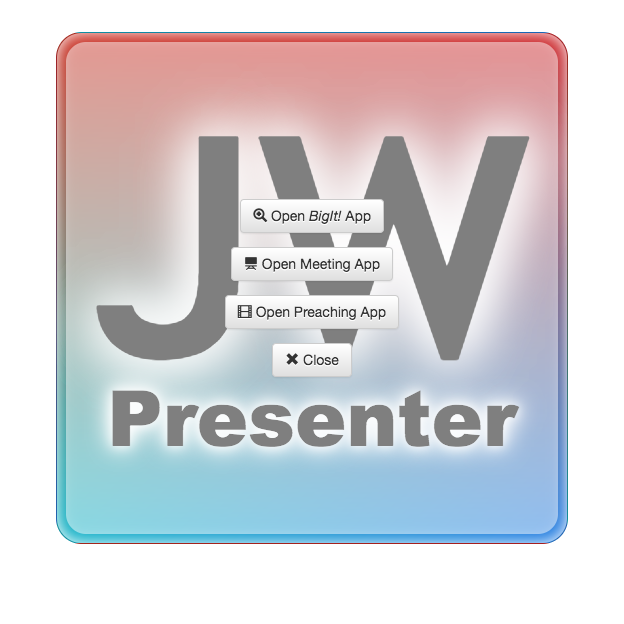
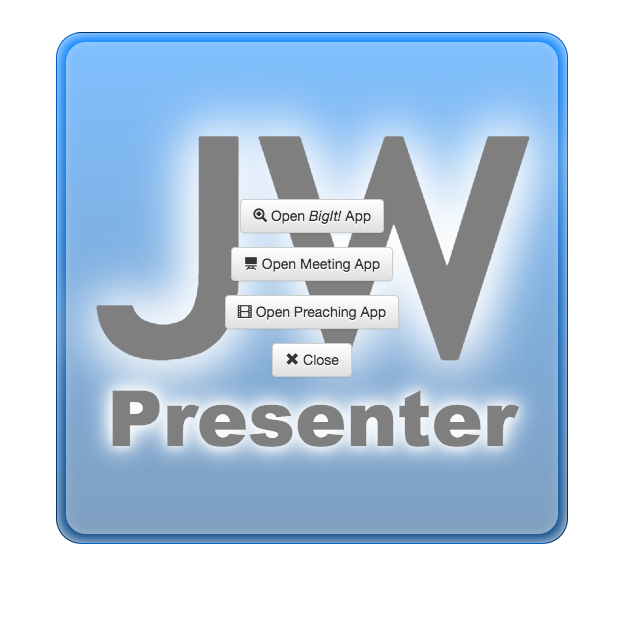
Fix preaching app's primary button styles.  Updated package.json for better distributions.  Change README to coincide with changes made in package.json.  Updated the launcher's screenshot.

diff --git a/preaching/index.html b/preaching/index.html
@@ -64,7 +64,7 @@
             <div class="input-group">
               <input type="text" id="txtSearch" placeholder="filter..." class="form-control">
               <span class="input-group-btn">
-                <button class="btn btn-default btn-primary"><i class="glyphicon glyphicon-search"></i></button>
+                <button class="btn btn-primary"><i class="glyphicon glyphicon-search"></i></button>
               </span>
             </div>
           </form>
@@ -86,7 +86,7 @@
           <div class="modal-body">
           </div>
           <div class="modal-footer">
-            <button type="button" class="btn btn-default btn-primary" data-dismiss="modal">Close</button>
+            <button type="button" class="btn btn-primary" data-dismiss="modal">Close</button>
             <button type="button" class="btn btn-reset">Reset</button>
           </div>
         </div>
@@ -154,7 +154,7 @@
           </div>
           <div class="modal-body"></div>
           <div class="modal-footer">
-            <button type="button" class="btn btn-default btn-primary btn-close" data-dismiss="modal">Close</button>
+            <button type="button" class="btn btn-primary btn-close" data-dismiss="modal">Close</button>
           </div>
         </div>
       </div>

diff --git a/app.js b/app.js
@@ -2,7 +2,7 @@ const path = require('path');
 const fs = require('fs');
 const os = require('os');
 const {app, BrowserWindow, Menu, shell, powerSaveBlocker, ipcMain} = require('electron');
-const JS = require('./YourJS/JS.js');
+const JS = require('./YourJS/JS');
 
 const IS_MAC = /^darwin/.test(os.platform());
 
@@ -226,12 +226,6 @@ ipcMain.on('start-meetings-app', () => {
         {
           label: 'View',
           submenu: [
-            // {
-            //   label: 'Reload',
-            //   accelerator: 'CmdOrCtrl+R',
-            //   role: 'reload'
-            // },
-            // { type: 'separator' },
             {
               label: 'Toggle Dev Tools',
               accelerator: 'CmdOrCtrl+Alt+I',

diff --git a/README.md b/README.md
@@ -13,12 +13,7 @@ Application designed by/for Jehovah's Witnesses for seamlessly presenting media 
 1. Clone this repository locally.
 1. Open up a command-line window and change the current directory to the main directory of the cloned repository.
 1. Run `npm install` to install the dependencies on your machine.
-1. Run `npm run build-mac` to build the Mac 64-bit version of this app locally.
-   1. Once done a new directory will have been created in the main repository directory called "JW-Presenter_For_Mac64".
-   1. The underlying .app file can be put into a Mac 64-bit "/Applications/" folder.
-1. Run `npm run build-win` to build the Windows 64-bit version of this app locally.
-   1. Once done a new directory will have been created in the main repository directory called "JW-Presenter_For_Win64".
-   1. The underlying folder within this new folder can be put into a Windows 64-bit "C:/Program Files" (or "C:/Program Files (x86)") folder.
+1. Run `npm run dist` to build the Mac & Windows versions of this app locally.  Once done a new directory will have been created in the main repository directory called "dist" containing the apps in ZIP files.
 
 ## Launcher
 When opening **JW Presenter** the following screen will be shown:
